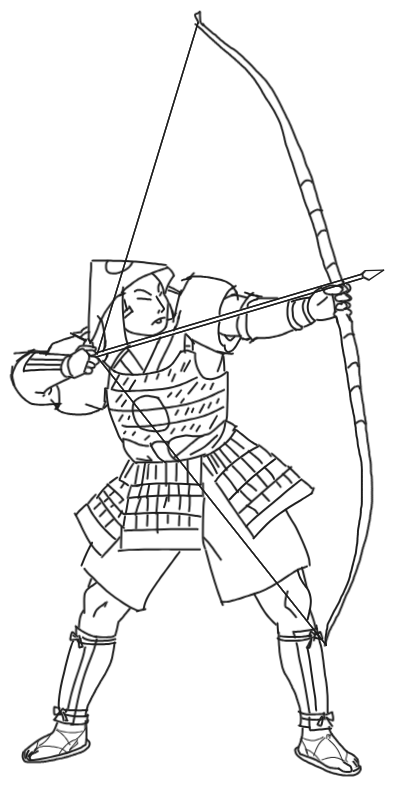
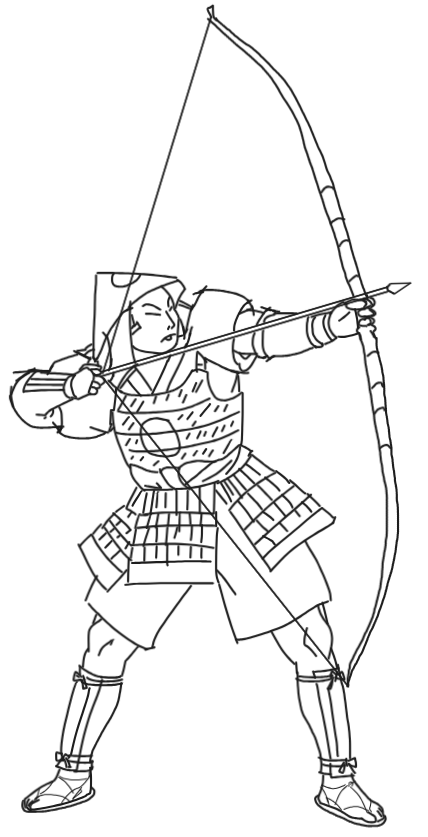
ashigaru

diff --git a/style.css b/style.css
@@ -376,6 +376,14 @@ body {
     .extras-border img {
         width: 130px;
     }
+
+    .characters-row .char-bow {
+        width: 130px;
+    }
+
+    .characters-row .char-yari {
+        width: 151px;
+    }
 }
 
 .extras {
@@ -387,7 +395,10 @@ body {
 
 .extras-border {
     display: flex;
+    flex-direction: row;
     justify-content: center;
+    align-items: flex-end;
+    gap: 15px;
     margin-top: 20px;
     margin-bottom: 20px;
 }
@@ -395,7 +406,25 @@ body {
 .extras-border img {
     width: 240px;
     max-width: 100%;
+    min-width: 0;
+    flex-shrink: 1;
     display: block;
+}
+
+.characters-row img {
+    height: auto;
+    max-width: 100%;
+    min-width: 0;
+    flex-shrink: 1;
+    display: block;
+}
+
+.characters-row .char-bow {
+    width: 240px;
+}
+
+.characters-row .char-yari {
+    width: 279px;
 }
 
 .quote {

diff --git a/index.html b/index.html
@@ -139,8 +139,9 @@
         <p>
             I'm becoming very wary of AI crawlers and of what I post on the internet. <br>I don't know if it is possible, but if we could, maybe we should undo it all and start anew
         </p>
-        <div class="extras-border">
-            <img src="resources/bow_ashigaru.png">
+        <div class="extras-border characters-row">
+            <img src="resources/bow_ashigaru.png" class="char-bow">
+            <img src="resources/yari_ashigaru.png" class="char-yari">
         </div>
         <div class="extras-border">
             <img src="resources/border.png">
